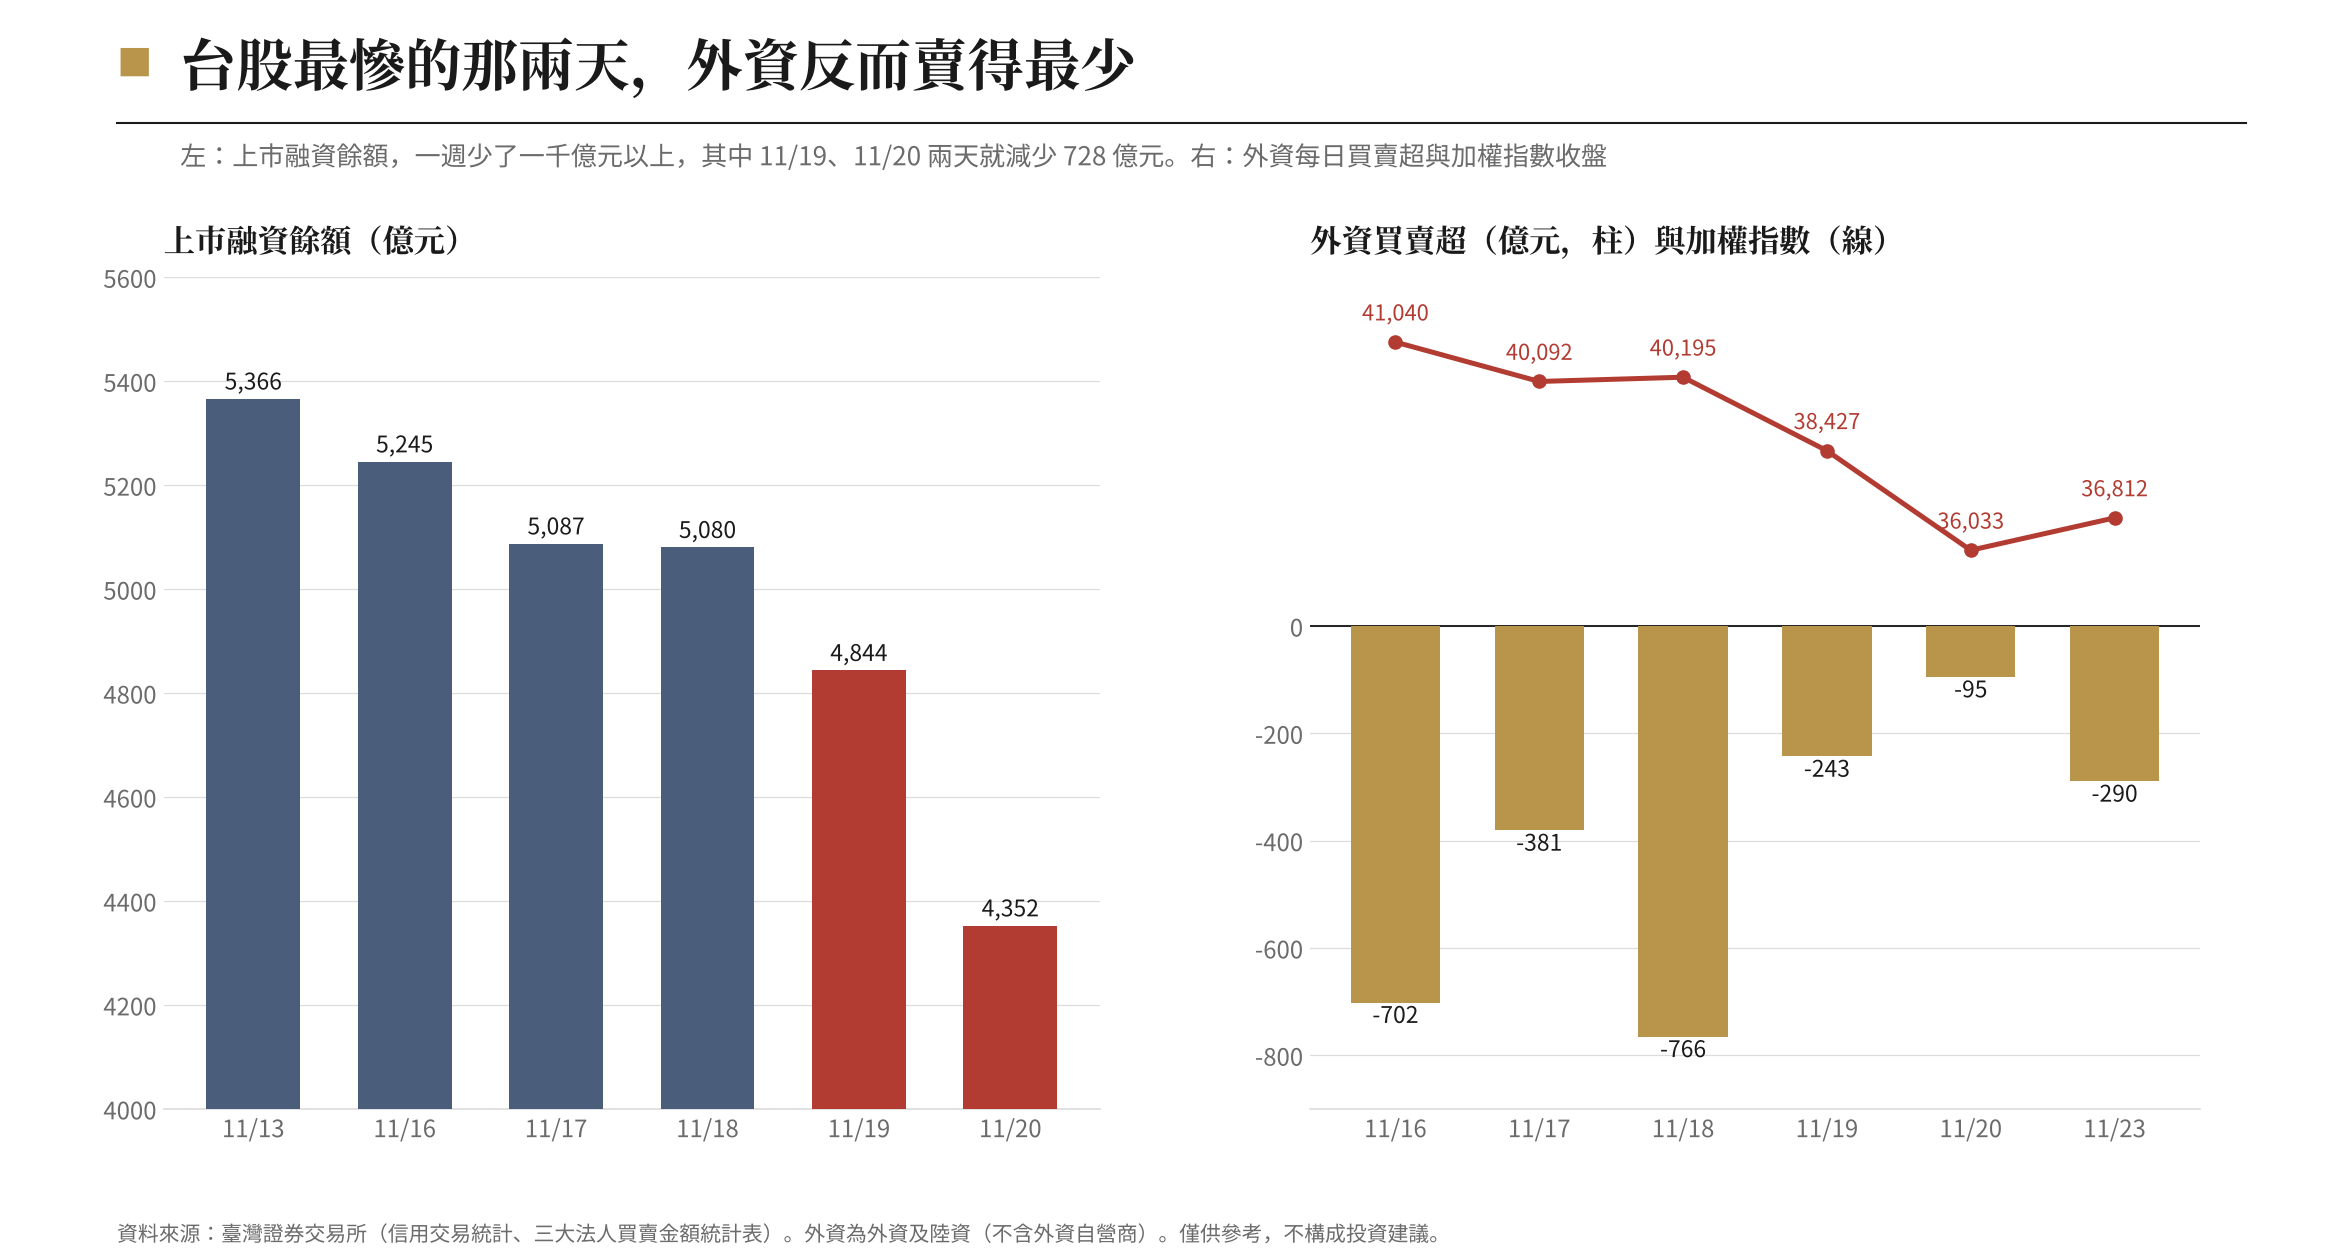
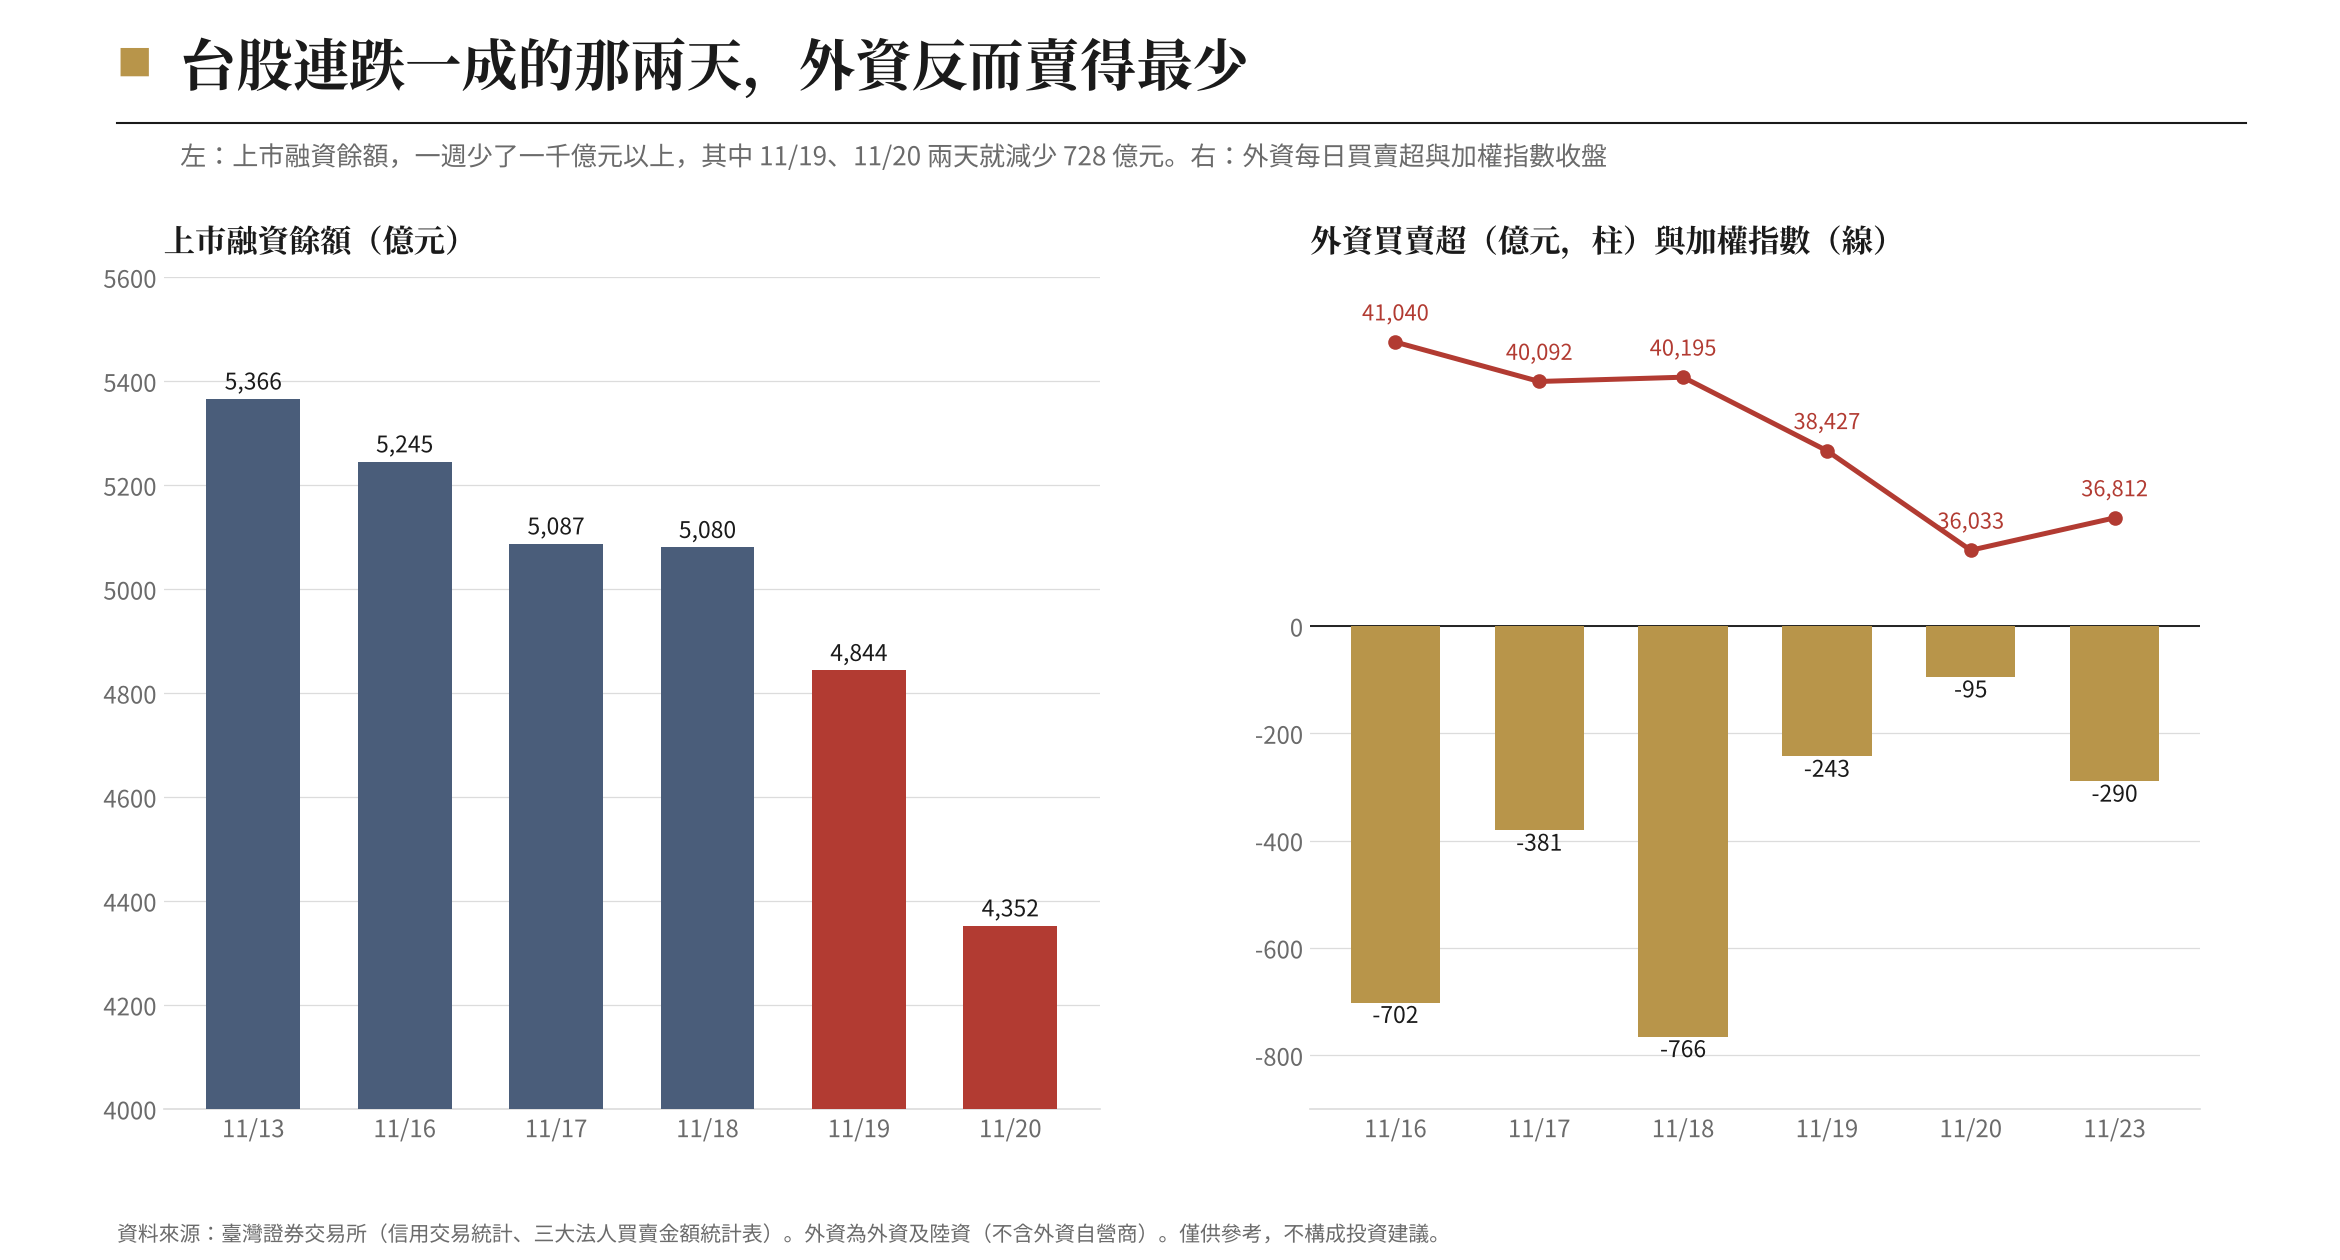
W47: apply independent verification fixes
Claude-Session: https://claude.ai/code/session_017fQSiLgrET3Kg63C49rJdr

Changed region(s): [[0.1248, 0.031, 0.5303, 0.0929]]

diff --git a/personal/drafts/2026-W47_vix35-notes.md b/personal/drafts/2026-W47_vix35-notes.md
@@ -31,3 +31,14 @@
 7. 台積電 11 月營收 12/10 為慣例日，正文寫「前後」。
 8. 黃仁勳 12/1 是眾院閉門逐字記錄約談，不是公開聽證（CNBC＋Axios）；先前給 Jake 的說明寫「聽證」，正文已改。
 9. 美中貿易休戰已延到 2027/1/10（先前說明寫「1 月到期」，方向對、日期補上），正文未用。
+
+## 獨立驗收（verifier，11/23）與處理
+結果：通過約 52、不符 5、無佐證 6。處理如下：
+- 不符 1、2（36,811／7,641 是無條件捨去）→ 改成 36,812、7,642。
+- 不符 3（「其他十二次」的中位數其實是 15 次全體的）→ 改寫成「把十五次放在一起看」，並補上「六個月內」的窗口。
+- 不符 4（「最慘的那兩天」若讀成單日，11/16 的 −6.03% 比 11/19 大）→ 正文與圖三標題改成「連跌一成的那兩天（11/19、11/20）」。
+- 不符 5（那指第 33 天是 −19.84%，還沒滿兩成；「幾乎同一條線」只在部分日子成立）→ 改成「三十三個交易日跌了將近兩成；1998 年跌到兩成花了三十個交易日」。
+- 無佐證 6–8（輝達單日 −14%、營收展望高於預期、加州調查「中國相關風險」）→ 來源是 Yahoo 收盤價（145.98→125.53）與彭博盤前簡報 11/18、11/20，驗收員手上沒有這幾封信；正文不改。
+- 無佐證 9（國安基金 11/9 進場是我們的定義，實際進場日未公布）→ 正文改成「十一月六日盤後決議進場，實際買在哪裡沒有公布；如果用隔一個交易日的收盤價算」。
+- 無佐證 10（聯準會 1998 三次降息、2000 升到五月）→ 用 FRED DFEDTAR 補查：1998/9/29、10/15、11/17 三次降息；2000/2/2、3/21、5/16 升息到 6.5%。2000 年獲利：舊金山聯準銀行稱標普 500 申報 EPS 2000 年約 50 美元、2001 年 24.69 美元；Cambridge Associates 稱營業利益高峰在 2000 年 12 月。正文改成「到 2001 年才明顯衰退」。
+- 無佐證 11（VIX 平常 15–20）→ 用 FRED 算：1990 年以來收盤中位數 17.57、四分位 14.0～22.7、收在 35 以上的交易日占 3.8%。正文改用中位數。
